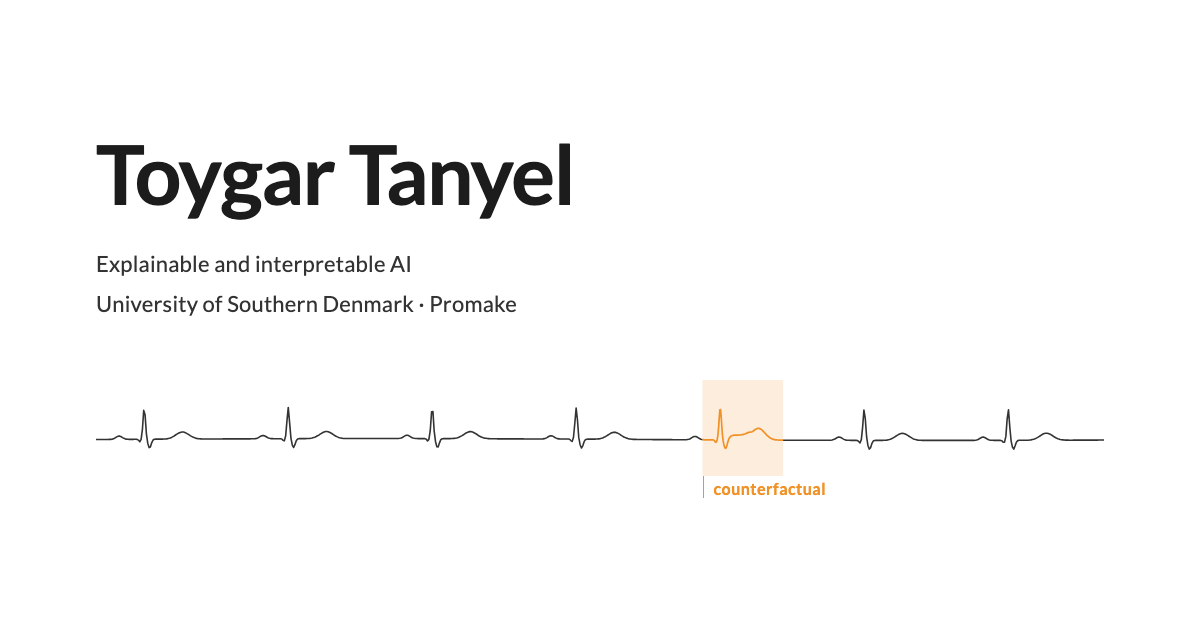
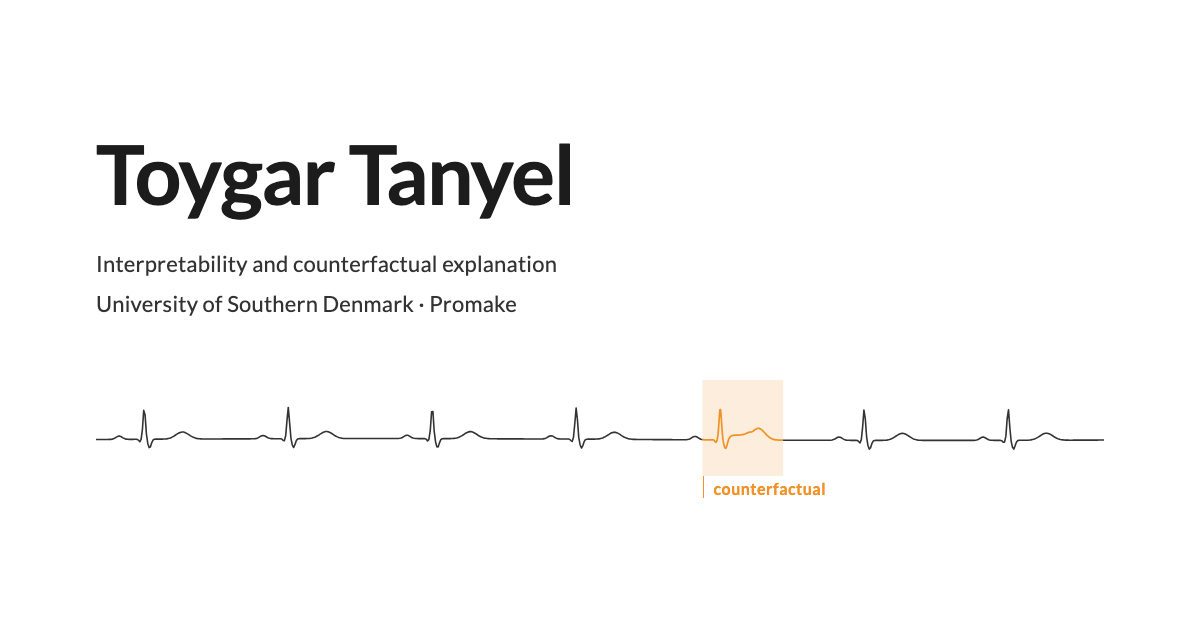
Stop writing explainable and interpretable as a pair, and order the list
He asked whether the two words mean the same thing. They do not, and the
distinction is the one Rudin's 2019 paper is about: interpretability is a
model whose workings can be read directly, explanation is the account you
produce when it cannot. Writing them as a compound throws that away, so it
reads either as hedging or as not knowing the difference. His own record
holds both apart, the saliency and counterfactual work being explanation and
the mechanistic work on language models being interpretability.

He also said the list was apples and pears, which it was: a field, then a
method, then a question, joined by "and". Putting the distinction to work
fixes both at once, because it gives the three an order instead of a pile.
Interpretability where a model's workings can be read at all; counterfactual
explanation where they cannot; and the harder question sitting under both, how
you would tell a good explanation from a bad one. Case, other case, and the
problem over both.

Same edit in the CV Profile, and its interests line is four parallel items now
with the domains marked off rather than smuggled in as a fourth interest.
"Trustworthy ML" went with it, a stock phrase whose only job there was carrying
the domain list.

The meta and og descriptions still had the old pairing and the old noun phrase,
and the meta description was 235 characters where search shows about 155. Both
rewritten, and the social card regenerated, since its strapline was printed into
the image.

Changed region(s): [[0.0617, 0.3921, 0.4625, 0.4524]]

diff --git a/index.html b/index.html
@@ -4,11 +4,11 @@
 <meta charset="utf-8">
 <meta name="viewport" content="width=device-width, initial-scale=1">
 <title>Toygar Tanyel</title>
-<meta name="description" content="Toygar Tanyel, visiting researcher at the University of Southern Denmark. Explainable and interpretable AI, counterfactual reasoning, and the evaluation of explanation, across medical imaging, biosignals and language models.">
+<meta name="description" content="Toygar Tanyel, visiting researcher at the University of Southern Denmark. Interpretability, counterfactual explanation, and how explanations are evaluated.">
 <meta name="author" content="Toygar Tanyel">
 <link rel="canonical" href="https://tanyelai.github.io/">
 <meta property="og:title" content="Toygar Tanyel">
-<meta property="og:description" content="Explainable and interpretable AI, counterfactual reasoning, and the evaluation of explanation, across medical imaging, biosignals and language models.">
+<meta property="og:description" content="Interpretability, counterfactual explanation, and how you would tell a good explanation from a bad one, across medical imaging, biosignals and language models.">
 <meta property="og:type" content="profile">
 <meta property="og:url" content="https://tanyelai.github.io/">
 <meta property="og:image" content="https://tanyelai.github.io/assets/og.png">
@@ -79,11 +79,12 @@
       to stop there, because I trained in computer science and the artificial
       version of the same thing is sitting right in front of us. What interests
       me most about it is where it ends up in our lives, more than any
-      particular technique. The work that has come out of that so far is
-      <strong>explainable and interpretable AI</strong>, counterfactual
-      reasoning, and how you would ever tell a good explanation from a bad one.
-      The material has changed several times and will change again, into theory,
-      or something I have not met yet.
+      particular technique. That has led to
+      <strong>interpretability</strong> where a model's workings can be read at
+      all, <strong>counterfactual explanation</strong> where they cannot, and
+      the harder question sitting under both: how you would ever tell a good
+      explanation from a bad one. The material has changed several times and
+      will change again, into theory, or something I have not met yet.
     </p>
 
     <p class="seealso">

diff --git a/scripts/og.html b/scripts/og.html
@@ -26,7 +26,7 @@
   }
 </style></head><body>
   <h1>Toygar Tanyel</h1>
-  <p class="sub">Explainable and interpretable AI<br>University of Southern Denmark &middot; Promake</p>
+  <p class="sub">Interpretability and counterfactual explanation<br>University of Southern Denmark &middot; Promake</p>
   <figure>
     <svg viewBox="0 0 1200 92" preserveAspectRatio="none">
       <defs><clipPath id="c"><rect x="722" y="0" width="96" height="92"></rect></clipPath></defs>
